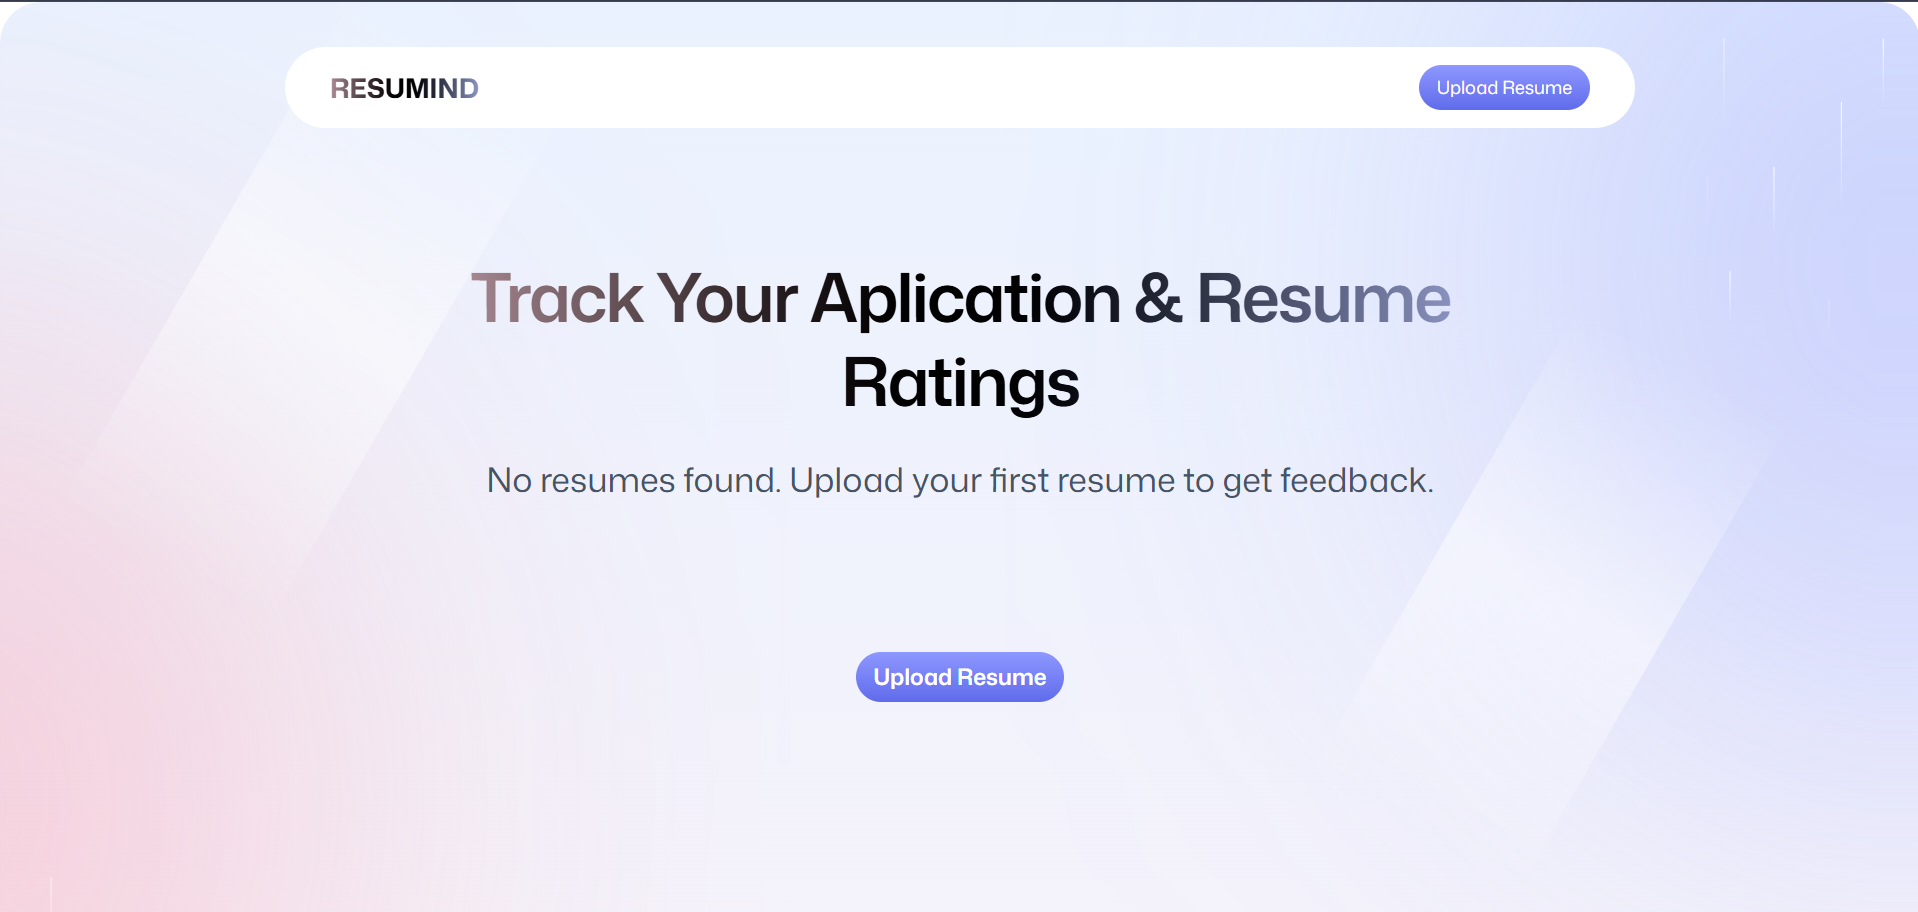
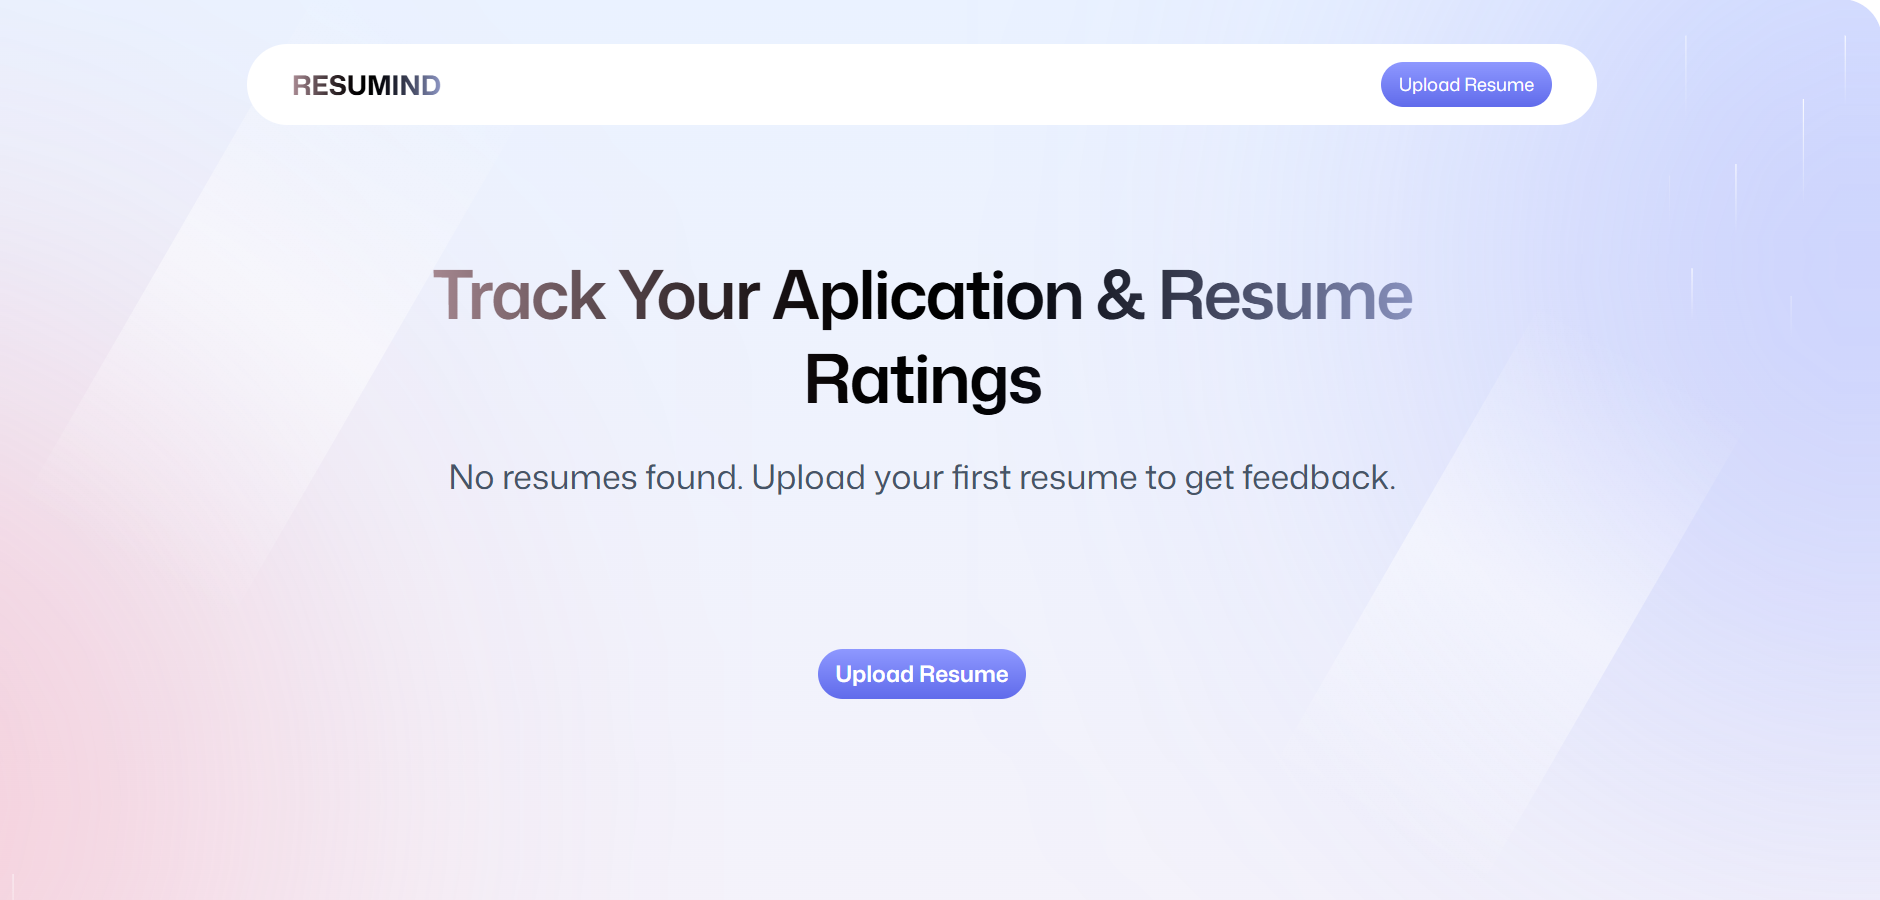
Add the third fullstack project

diff --git a/data/project-page.ts b/data/project-page.ts
@@ -54,7 +54,7 @@ export const projectCategories: ProjectCategory[] = [
   {
     id: "frontend",
     label: "Front-End",
-    icon: "/assets/react.png",
+    icon: "/assets/frontend-projects-icon.png",
     projects: [
       {
         title: "Personal Notes App",
@@ -101,7 +101,7 @@ export const projectCategories: ProjectCategory[] = [
   {
     id: "fullstack",
     label: "Full-Stack",
-    icon: "/assets/nextjs.png",
+    icon: "/assets/fullstack-projects-icon.png",
     projects: [
       {
         title: "Pixeldenz Store",
@@ -130,13 +130,27 @@ export const projectCategories: ProjectCategory[] = [
         live: "https://dev-events-0011.vercel.app",
         github: "https://github.com/putrasedana/dev-events",
       },
+      {
+        title: "Travel Agency Dashboard",
+        description:
+          "An admin dashboard built with React Router v7, featuring interactive tables, analytics charts, and personalized trip recommendations using the Gemini API.",
+        stack: [
+          { name: "TypeScript", icon: "/assets/typescript.png" },
+          { name: "React.js", icon: "/assets/react.png" },
+          { name: "Tailwind", icon: "/assets/tailwind.png" },
+          { name: "Appwrite", icon: "/assets/appwrite.png" },
+        ],
+        image: "/assets/fullstack-project-3.png",
+        live: "https://travel-agency-dashboard-swart.vercel.app/",
+        github: "https://github.com/putrasedana/travel-agency-dashboard",
+      },
     ],
   },
 
   {
     id: "backend",
     label: "Back-End",
-    icon: "/assets/nodejs.png",
+    icon: "/assets/backend-projects-icon.png",
     projects: [
       {
         title: "Bookshelf API",

diff --git a/components/ProjectSlider.tsx b/components/ProjectSlider.tsx
@@ -27,15 +27,15 @@ export default function ProjectSlider({ projects, activeIndex, onChange }: Props
       >
         {projects.map((project) => (
           <SwiperSlide key={project.title}>
-            <div className="h-80 relative">
-              <Image src={project.image} fill className="object-cover object-top" alt={project.title} />
+            <div className="relative aspect-video border-2 border-white/60 rounded-2xl">
+              <Image src={project.image} fill className="object-cover rounded-2xl" alt={project.title} />
             </div>
           </SwiperSlide>
         ))}
 
         {/* Footer UI */}
-        <div className="flex items-start justify-between mt-4">
-          <div className="mb-4 text-sm">
+        <div className="flex items-center justify-between mt-4">
+          <div className=" text-white/70">
             {String(activeIndex + 1).padStart(2, "0")} of {String(projects.length).padStart(2, "0")}
           </div>
 
@@ -43,7 +43,7 @@ export default function ProjectSlider({ projects, activeIndex, onChange }: Props
             onPrev={() => swiperRef.current?.slidePrev()}
             onNext={() => swiperRef.current?.slideNext()}
             containerStyles="flex gap-2"
-            btnStyles="bg-green-500 hover:bg-green-600 text-slate-800 text-[22px] w-[44px] h-[44px] flex justify-center items-center transition-all cursor-pointer"
+            btnStyles="bg-green-500 rounded-full hover:bg-green-600 text-slate-800 text-[22px] w-[44px] h-[44px] flex justify-center items-center transition-all cursor-pointer"
           />
         </div>
       </Swiper>

diff --git a/components/ProjectDetails.tsx b/components/ProjectDetails.tsx
@@ -1,6 +1,6 @@
-import { Project } from '@/data/project-page';
-import ProjectActions from './ProjectActions';
-import Image from 'next/image';
+import { Project } from "@/data/project-page";
+import ProjectActions from "./ProjectActions";
+import Image from "next/image";
 
 type Props = {
   project: Project;
@@ -17,17 +17,18 @@ export default function ProjectDetails({ project }: Props) {
         <ul className="flex gap-4">
           {project.stack.map((item, i) => (
             <li key={i} className="flex flex-wrap items-center gap-2">
-              {item.name === 'Next.js' ? (
+              {item.name === "Next.js" ? (
                 <div className="bg-white rounded-full flex items-center justify-center">
-                  <Image
-                    src={item.icon}
-                    alt={item.name}
-                    width={34}
-                    height={34}
-                  />
+                  <Image src={item.icon} alt={item.name} width={34} height={34} />
                 </div>
               ) : (
-                <Image src={item.icon} alt={item.name} width={28} height={28} />
+                <Image
+                  src={item.icon}
+                  alt={item.name}
+                  width={28}
+                  height={28}
+                  className={item.name === "Express.js" ? "rounded-full" : ""}
+                />
               )}
 
               <span className="text-white text-sm">{item.name}</span>

diff --git a/app/resume/page.tsx b/app/resume/page.tsx
@@ -142,9 +142,6 @@ const Resume = () => {
                             className="object-contain"
                             sizes="(max-width: 1024px) 100vw, 50vw"
                           />
-
-                          {/* Thin black overlay */}
-                          <div className="absolute inset-0 bg-black/20 pointer-events-none" />
                         </div>
                       </a>
                     </li>
@@ -162,8 +159,8 @@ const Resume = () => {
               <ul className="grid grid-cols-1 sm:grid-cols-2 gap-y-6 max-w-155 sm:mx-auto xl:mx-0">
                 {about.info.map((item, index) => (
                   <li key={index} className="flex items-center justify-start gap-4">
-                    <span className="text-white/60">{item.fieldName}</span>
-                    <span className="xl:text-lg">{item.fieldValue}</span>
+                    <span className="text-white/60">{item.fieldName}:</span>
+                    <span>{item.fieldValue}</span>
                   </li>
                 ))}
               </ul>

diff --git a/components/ProjectCategorySection.tsx b/components/ProjectCategorySection.tsx
@@ -24,18 +24,12 @@ export default function ProjectCategorySection({ category, index }: Props) {
       {/* Header */}
       <div className="flex flex-col gap-6 lg:flex-row lg:items-center lg:justify-between justify-between items-center mb-8">
         <div className="flex items-baseline gap-4">
-          <span className="text-4xl lg:text-5xl font-extrabold text-transparent [-webkit-text-stroke:1px_white]">
-            {String(index + 1).padStart(2, "0")}
-          </span>
-
           <h2 className="text-4xl lg:text-5xl font-extrabold text-transparent [-webkit-text-stroke:1px_white]">
             {category.label}
           </h2>
         </div>
 
-        <div
-          className={`w-15 h-15 rounded-full flex items-center justify-center ${category.id == "fullstack" ? "bg-white  border border-white" : "bg-transparent"}`}
-        >
+        <div className={`w-17 h-17 rounded-full flex items-center justify-center bg-white  border border-white`}>
           <Image
             src={category.icon}
             alt={`${category.label} icon`}

diff --git a/app/layout.tsx b/app/layout.tsx
@@ -11,20 +11,14 @@ const jetbrainsMono = JetBrains_Mono({
 });
 
 export const metadata = {
-  title: "Create Next App",
+  title: "Portfolio Website",
   description: "Generated by create next app",
 };
 
-export default function RootLayout({
-  children,
-}: {
-  children: React.ReactNode;
-}) {
+export default function RootLayout({ children }: { children: React.ReactNode }) {
   return (
     <html lang="en">
-      <body
-        className={`${jetbrainsMono.variable} antialiased bg-slate-950 text-white jetbrains-mono`}
-      >
+      <body className={`${jetbrainsMono.variable} antialiased bg-slate-900 text-white jetbrains-mono`}>
         <Header />
         <StairTransaction />
         <PageTransition>{children}</PageTransition>
